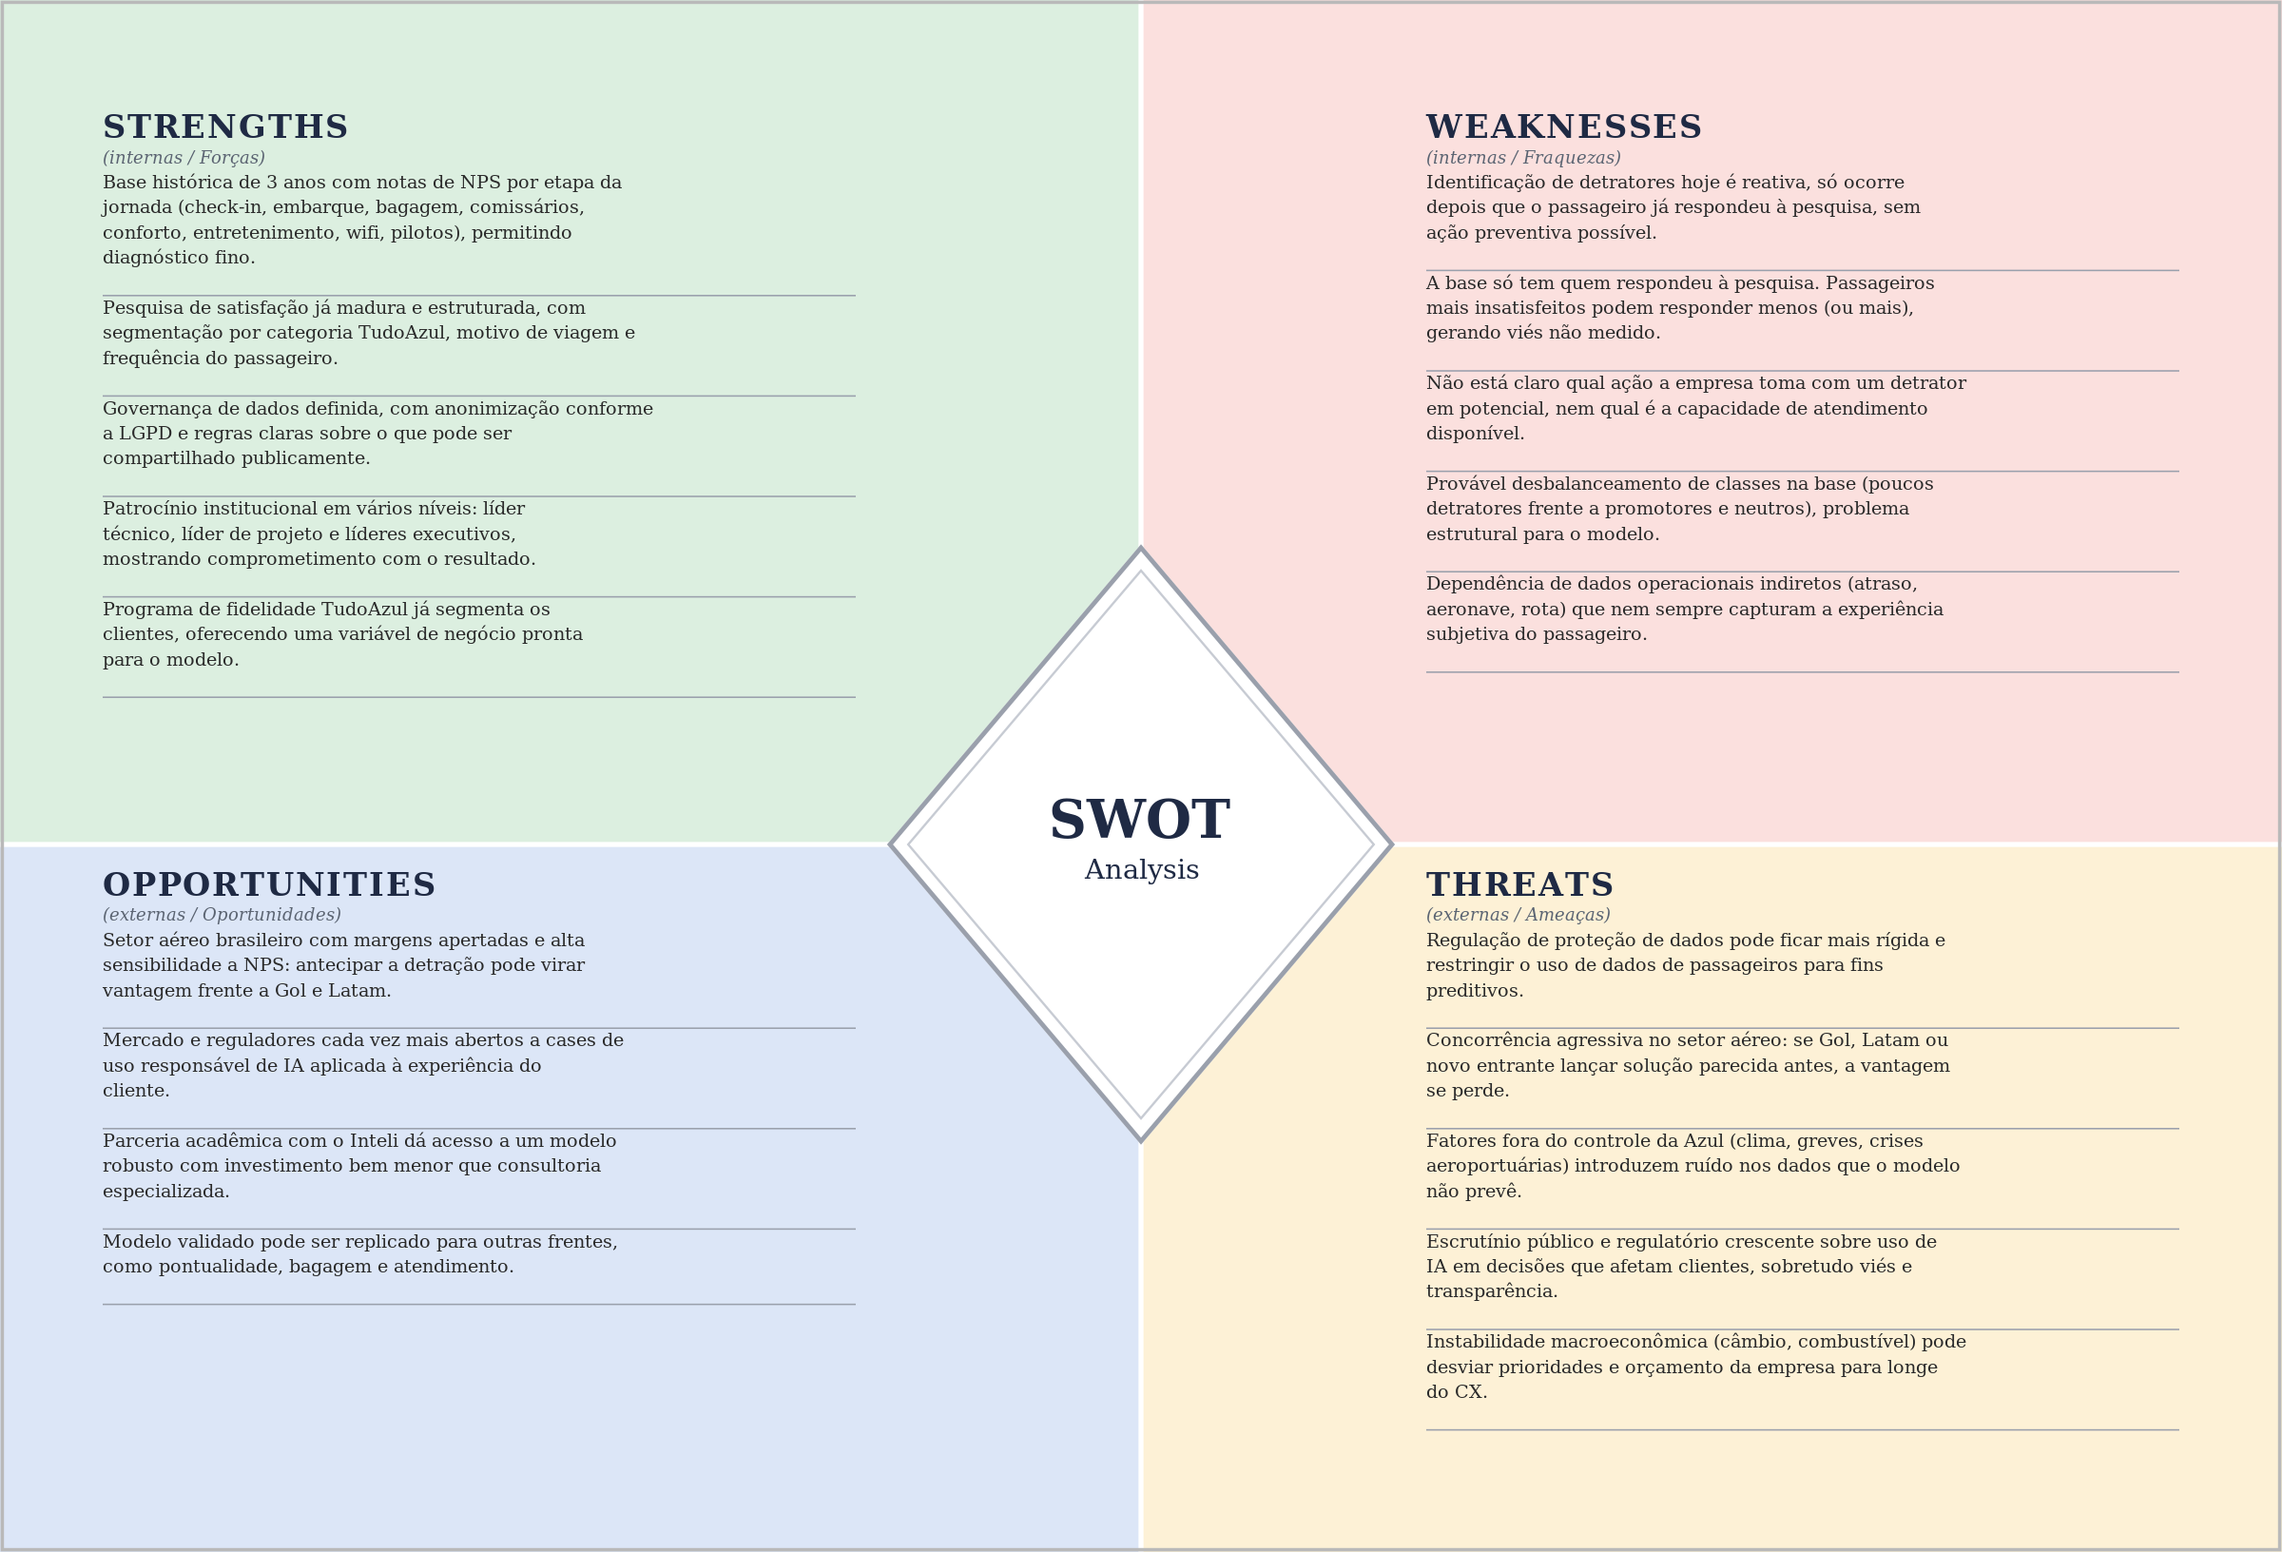
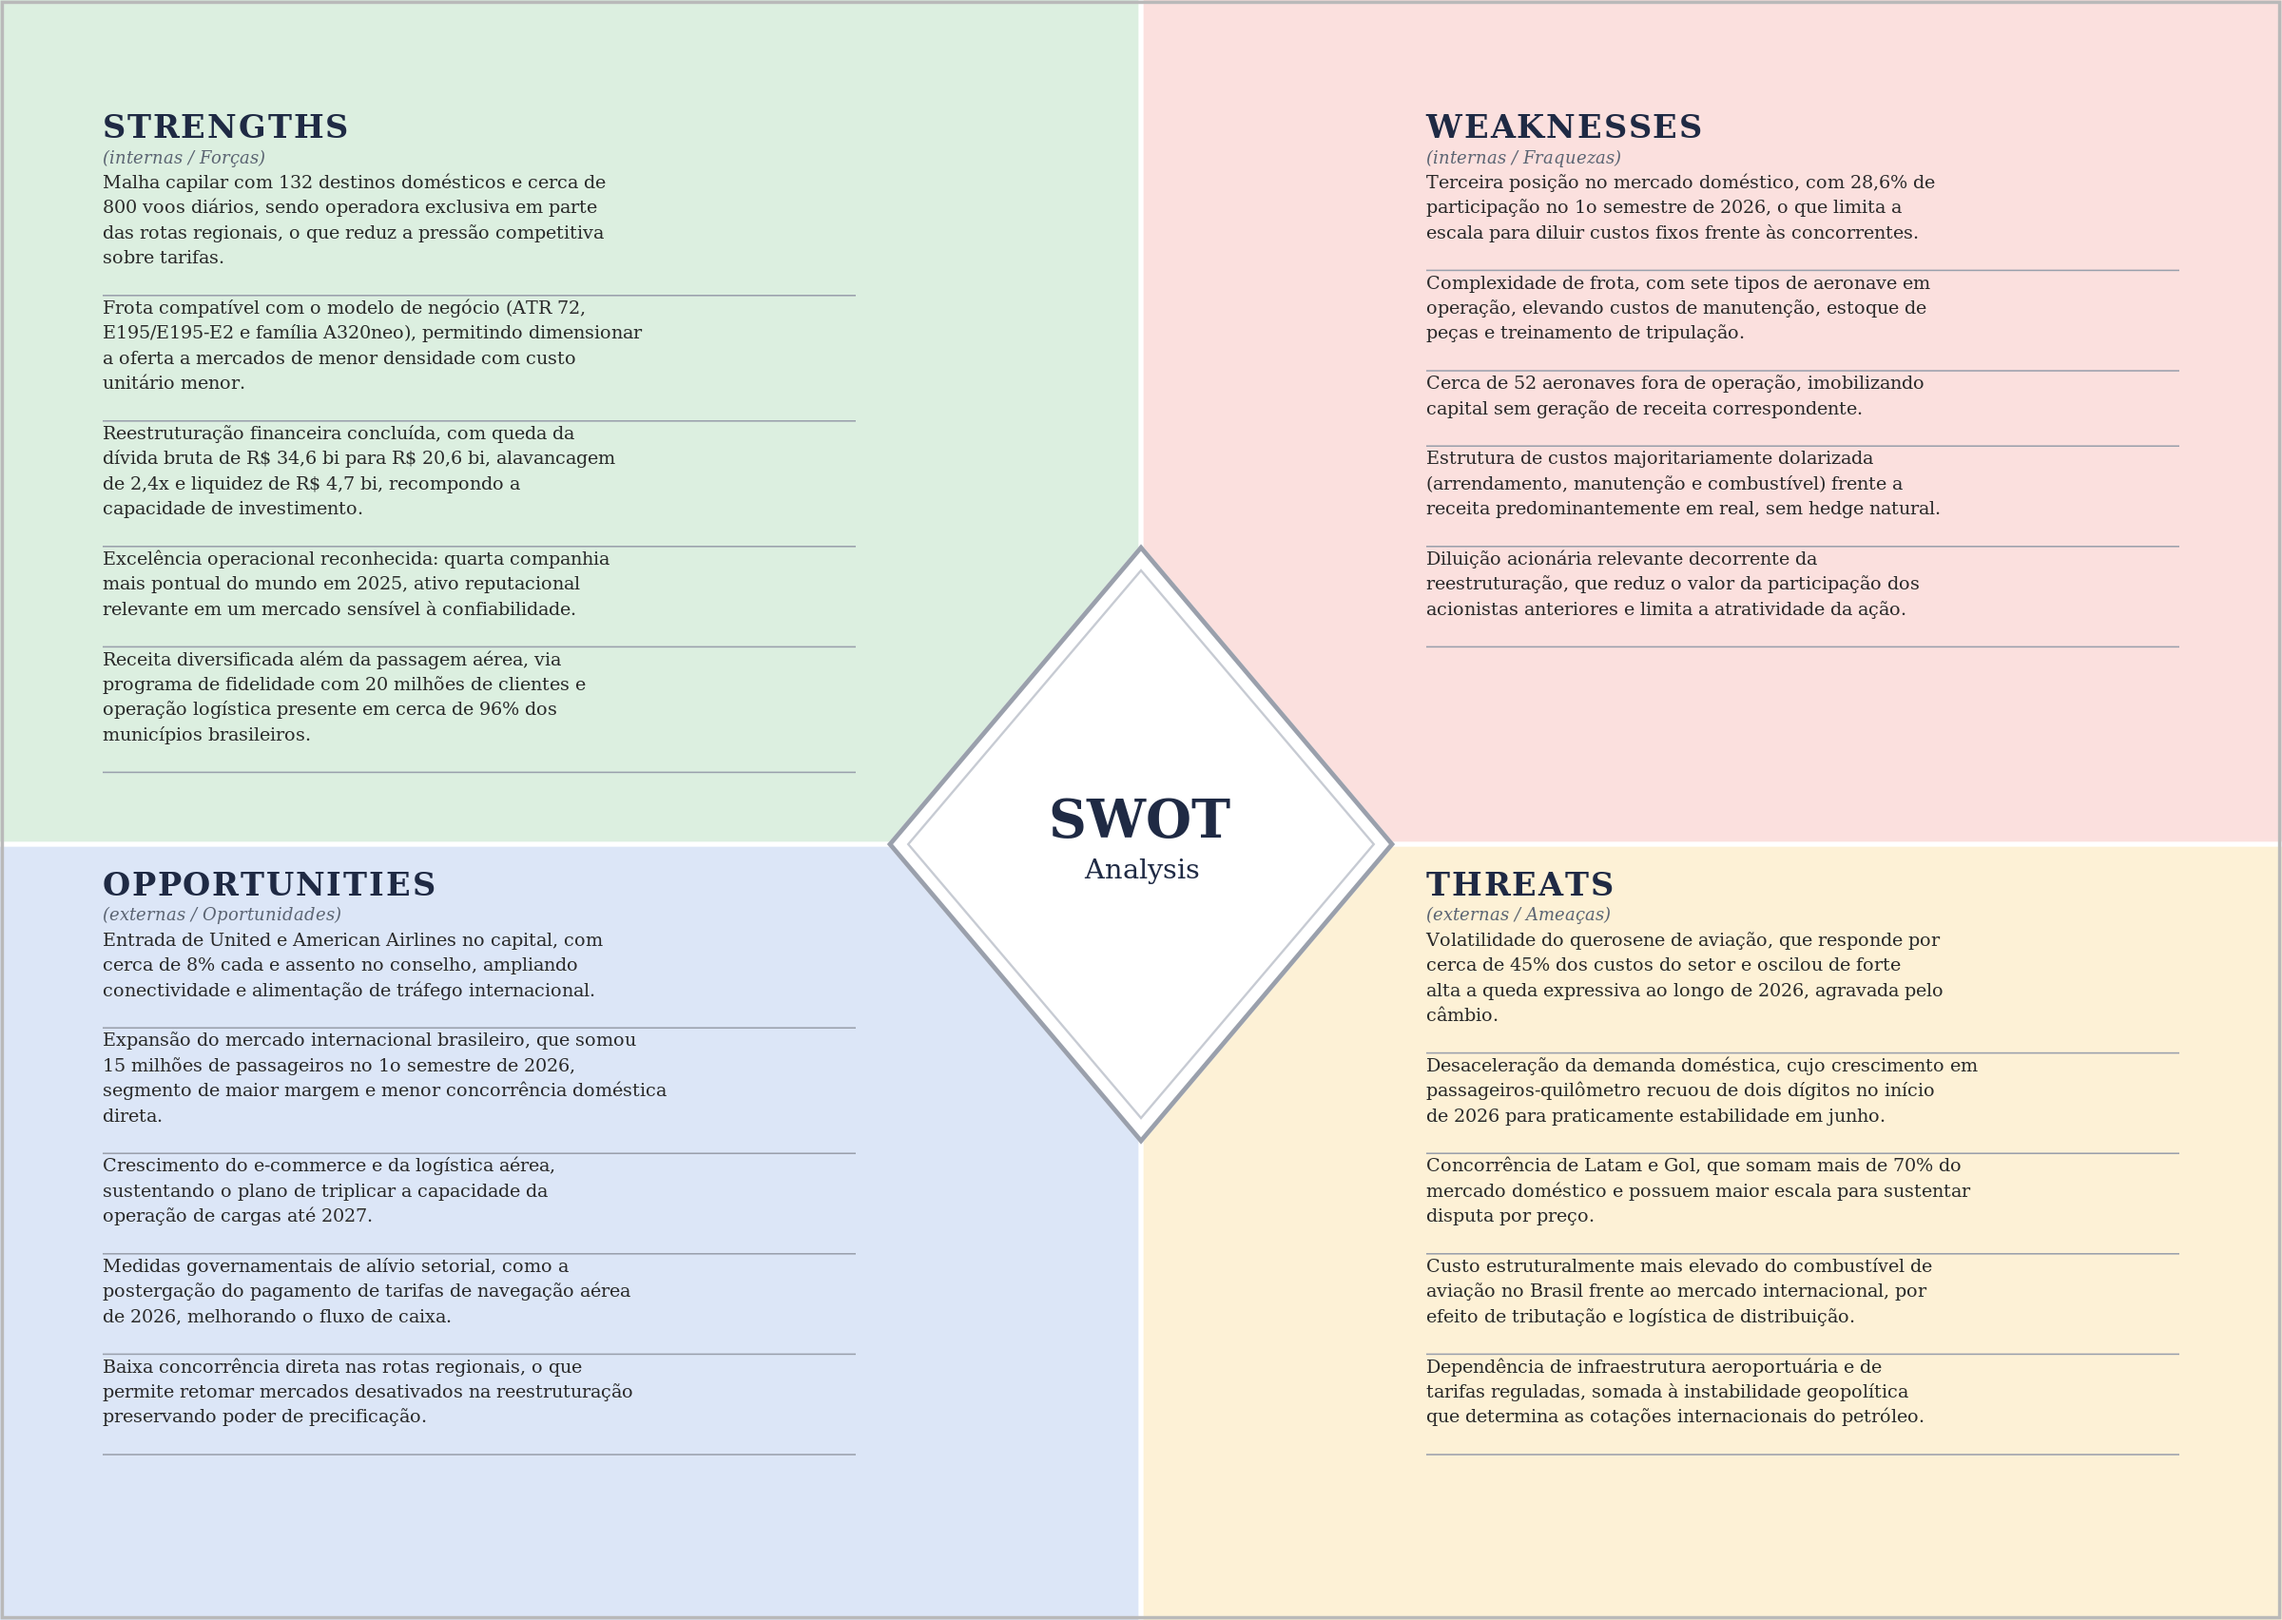
docs/fix/matriz_swot_4.1.2#19 arrumando a matriz SWOT e texto analitico

Changed region(s): [[0.0, 0.3438, 1.0, 0.9062], [0.0312, 0.0625, 0.2812, 0.4688], [0.625, 0.0625, 0.875, 0.4375]]

diff --git a/documents/documentacao.md b/documents/documentacao.md
@@ -72,17 +72,49 @@ Descreva aqui o Contexto Setorial e posicione a análise das 5 Forças de Porter
 Remova este bloco ao final
 ```
 #### 4.1.2. Análise SWOT 
--A matriz SWOT é uma ferramenta de diagnóstico estratégico dividida em quatro quadrantes: Forças e Fraquezas, que são fatores internos da organização e estão sob seu controle, e Oportunidades e Ameaças, que são fatores externos do mercado e não dependem diretamente da organização.
+- A matriz SWOT é uma ferramenta de diagnóstico estratégico dividida em quatro quadrantes: Forças e Fraquezas, que são fatores internos da organização e estão sob seu controle, e Oportunidades e Ameaças, que são fatores externos do mercado e não dependem diretamente da organização.
 
--As Forças são os pontos em que a organização já se destaca, como recursos, competências ou processos bem estabelecidos. As Fraquezas são as limitações internas que ainda pesam contra ela, como falhas de processo, dados incompletos ou dependências não resolvidas. Já as Oportunidades são condições externas favoráveis que a organização pode aproveitar, como tendências de mercado ou brechas deixadas pela concorrência, enquanto as Ameaças são riscos externos que fogem do seu controle, como mudanças regulatórias, movimentos da concorrência ou instabilidade econômica.
+- As Forças são os pontos em que a organização já se destaca, como recursos, competências ou processos bem estabelecidos. As Fraquezas são as limitações internas que ainda pesam contra ela, como falhas de processo, dados incompletos ou dependências não resolvidas. Já as Oportunidades são condições externas favoráveis que a organização pode aproveitar, como tendências de mercado ou brechas deixadas pela concorrência, enquanto as Ameaças são riscos externos que fogem do seu controle, como mudanças regulatórias, movimentos da concorrência ou instabilidade econômica.
 
--A ideia é cruzar esses dois eixos, interno e externo, favorável e desfavorável, para dar uma visão organizada da situação de um projeto, produto ou empresa em determinado momento. Esse diagnóstico serve de base para decisões estratégicas antes de partir para a definição de soluções, ajudando a identificar onde investir, o que corrigir e quais riscos monitorar de perto.
+- A ideia é cruzar esses dois eixos, interno e externo, favorável e desfavorável, para dar uma visão organizada da situação de um projeto, produto ou empresa em determinado momento. Esse diagnóstico serve de base para decisões estratégicas antes de partir para a definição de soluções, ajudando a identificar onde investir, o que corrigir e quais riscos monitorar de perto.
 
 <div align="center">
   <sub>Análise SWOT</sub><br>
   <img src="../assets/analise_swot.png" width="100%" alt="Análise SWOT"><br>
   <sup>Fonte: Autoria própria.</sup>
 </div>
+
+**Texto Analítico**
+
+**Critério de classificação escolhido pelo grupo**
+
+A matriz se organiza em dois eixos: interno ou externo, e favorável ou desfavorável. O teste aplicado para o primeiro eixo foi a capacidade de decisão da companhia. Se a Azul pode alterar o fator por decisão própria, ele é interno; se apenas reage a ele, é externo.
+
+Esse critério explica duas escolhas que poderiam gerar dúvida. A saída do Chapter 11 foi classificada como força, e não oportunidade, porque decorre de reestruturação conduzida pela própria empresa e se materializa no balanço. Já a entrada de United e American no capital é oportunidade, pois depende de decisão de terceiros e de aprovação regulatória.
+
+**Forças**
+
+Descrevem capacidades próprias da companhia. A malha capilar, com 132 destinos domésticos e cerca de 800 voos diários, é o ativo central, já que a exclusividade em parte das rotas regionais reduz a pressão sobre tarifas. A frota compatível com esse modelo é a condição técnica que a viabiliza, existindo relação de causa entre os dois pontos. A reestruturação concluída entra como força por se traduzir em indicadores internos de balanço: dívida bruta de R$ 34,6 bi para R$ 20,6 bi, alavancagem de 2,4x e liquidez de R$ 4,7 bi. A pontualidade, com a quarta colocação mundial em 2025, resulta de gestão operacional. A diversificação de receita, via fidelidade com 20 milhões de clientes e logística em 96% dos municípios, reduz a dependência da venda de passagens.
+
+**Fraquezas**
+
+Foram escolhidas de modo a não apenas espelhar o inverso das forças. A terceira posição no mercado doméstico, com 28,6% no primeiro semestre de 2026, limita a diluição de custos fixos. A complexidade de sete tipos de aeronave é o contraponto direto da segunda força: a diversidade que viabiliza a malha encarece manutenção, peças e treinamento. As 52 aeronaves fora de operação imobilizam capital sem receita. A estrutura de custos dolarizada foi mantida como interna porque resulta do modelo de financiamento adotado, ainda que a cotação da moeda seja externa. A diluição acionária é a contrapartida negativa da recuperação do balanço.
+
+**Oportunidades**
+
+Reúnem movimentos externos que a companhia pode capturar. A entrada de United e American, com cerca de 8% cada e assento no conselho, fornece o canal internacional, enquanto a expansão do mercado internacional brasileiro, com 15 milhões de passageiros no primeiro semestre de 2026, fornece a demanda. As duas se reforçam. O crescimento do e-commerce sustenta o plano de triplicar a capacidade de cargas até 2027, dialogando com a força da diversificação. A postergação das tarifas de navegação aérea é decisão de política pública que melhora o fluxo de caixa. A baixa concorrência nas rotas regionais é condição de mercado, não atributo da empresa, o que justifica sua posição neste quadrante.
+
+**Ameaças**
+
+O quadrante foi consolidado para evitar redundância. Combustível e câmbio, antes separados, foram unificados, pois o querosene responde por cerca de 45% dos custos do setor e é reajustado com base no dólar. A desaceleração da demanda, que recuou de dois dígitos no início de 2026 para praticamente estabilidade em junho, limita o repasse de custos via tarifa. A concorrência de Latam e Gol, somando mais de 70% do mercado, articula-se com a fraqueza de escala. O custo estruturalmente mais alto do combustível no Brasil é risco distinto da volatilidade, por tratar de nível de preço e não de oscilação. A dependência de infraestrutura e tarifas reguladas completa o quadrante como risco institucional.
+
+**Conexões SWOT**
+
+Três tensões organizam a leitura. A primeira é que malha capilar e complexidade de frota têm a mesma origem, de modo que a vantagem competitiva carrega seu próprio custo. A segunda é que a recomposição do balanço é justamente o que torna acessíveis a expansão internacional, a retomada regional e o crescimento de cargas, tendo como contrapartida a diluição acionária. A terceira é que a menor escala se torna mais crítica em um mercado que deixou de crescer aceleradamente, pois a disputa passa a ocorrer por participação.
+
+**Síntese**
+
+A Azul apresenta vantagem competitiva defensável, sustentada pela capilaridade da malha e pela reputação operacional, mas opera com margem financeira estreita e alta exposição a custos externos. A prioridade estratégica é usar o fôlego da reestruturação e a conectividade dos parceiros internacionais para proteger o ativo regional, avançando na logística para reduzir a sensibilidade a combustível, câmbio e ciclo da demanda doméstica.
 
 #### 4.1.3. Planejamento Geral da Solução
 ```
@@ -200,9 +232,42 @@ Remova este bloco ao final
 
 ## <a name="c6"></a>6. Referências
 ```
-Incluir as principais referências de seu projeto, para que seu parceiro possa consultar caso ele se interessar em aprofundar. Não se esqueça de formatar as referências conforme a ABNT.
+Análise SWOT:
+1. Azul S.A. — Form 6-K, Securities and Exchange Commission (SEC) — 18/02/2026
+https://www.sec.gov/Archives/edgar/data/1432364/000129281426000396/azul20260218_6k.htm
 
-Remova este bloco ao final
+2. Azul S.A. — Resultados do 1º trimestre de 2026 (divulgação de resultados) — maio/2026
+Reproduzido em: https://voenews.com.br/azul-registra-resultados-expressivos-no-1o-trimestre-de-2026-com-receita-de-r-55-bilhoes-ebitda-de-r-17-bilhao-e-avanco-no-plano-de-rentabilidade/
+
+3. InfoMoney — Azul atualiza plano e projeta forte diluição — 2026
+https://www.infomoney.com.br/mercados/azul-atualiza-plano-mostra-melhora-mas-previsao-de-forte-diluicao-impede-otimismo/
+
+4. Conselho Administrativo de Defesa Econômica (CADE) — agosto/2026
+https://brasilturis.com.br/2026/08/03/cade-aprova-sem-restricoes-operacao-entre-azul-e-american-airlines/
+
+5. ANAC — Painel de Indicadores do Transporte Aéreo / Dados e Estatísticas
+https://www.gov.br/anac/pt-br/assuntos/dados-e-estatisticas/mercado-do-transporte-aereo/painel-de-indicadores-do-transporte-aereo
+
+6. ANAC — Dados de movimentação de passageiros, 1º semestre de 2026
+Reproduzido em: https://pontospravoar.com/transporte-aereo-movimenta-652-milhoes-de-passageiros-no-1o-semestre/
+
+7. Cirium — On-Time Performance Review 2025 — janeiro/2026
+https://www.panrotas.com.br/aviacao/empresas/2026/01/azul-e-latam-estao-entre-as-companhias-aereas-mais-pontuais-do-mundo-em-2025-veja-ranking_224723.html
+
+8. Petrobras / Agência Brasil — Reajustes do querosene de aviação — abril a agosto/2026
+https://agenciabrasil.ebc.com.br/economia/noticia/2026-06/petrobras-reduz-preco-do-querosene-de-aviacao-em-142
+
+9. ABEAR (Associação Brasileira das Empresas Aéreas) — 2026
+https://www.mixvale.com.br/2026/07/01/querosene-de-aviacao-tem-corte-de-145-no-preco-praticado-pela-petrobras-a-partir-de-julho/
+
+10. Azul Logística — dados operacionais — 2026
+https://logweb.com.br/azul-logistica-amplia-operacao-multimodal-e-triplica-frota-cargueira-ate-2027/
+
+11. Azul Fidelidade — base de clientes — maio/2026
+https://brasilturis.com.br/2026/05/25/azul-fidelidade-supera-20-milhoes-de-clientes-e-dobrou-de-tamanho-em-cinco-anos/
+
+12. Dados de frota e malha da Azul — junho/2026
+https://brasilturis.com.br/2026/06/17/com-30-mil-voos-por-mes-azul-aposta-em-expansao-operacional/
 ```
 
 ## <a name="attachments"></a>Anexos
